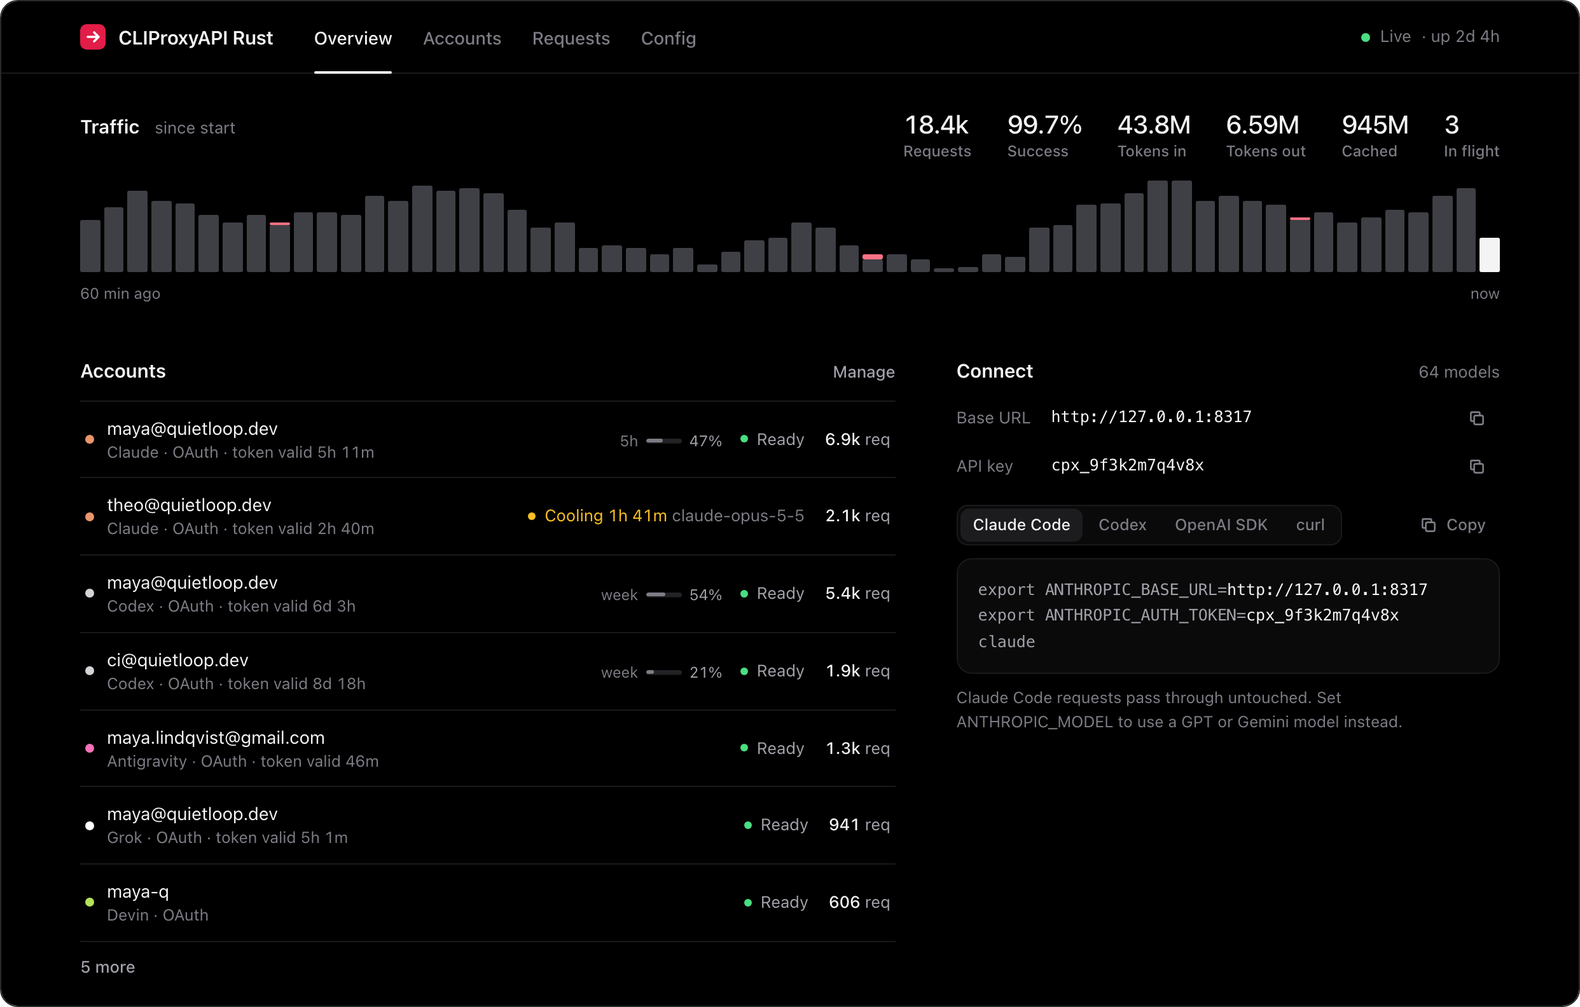
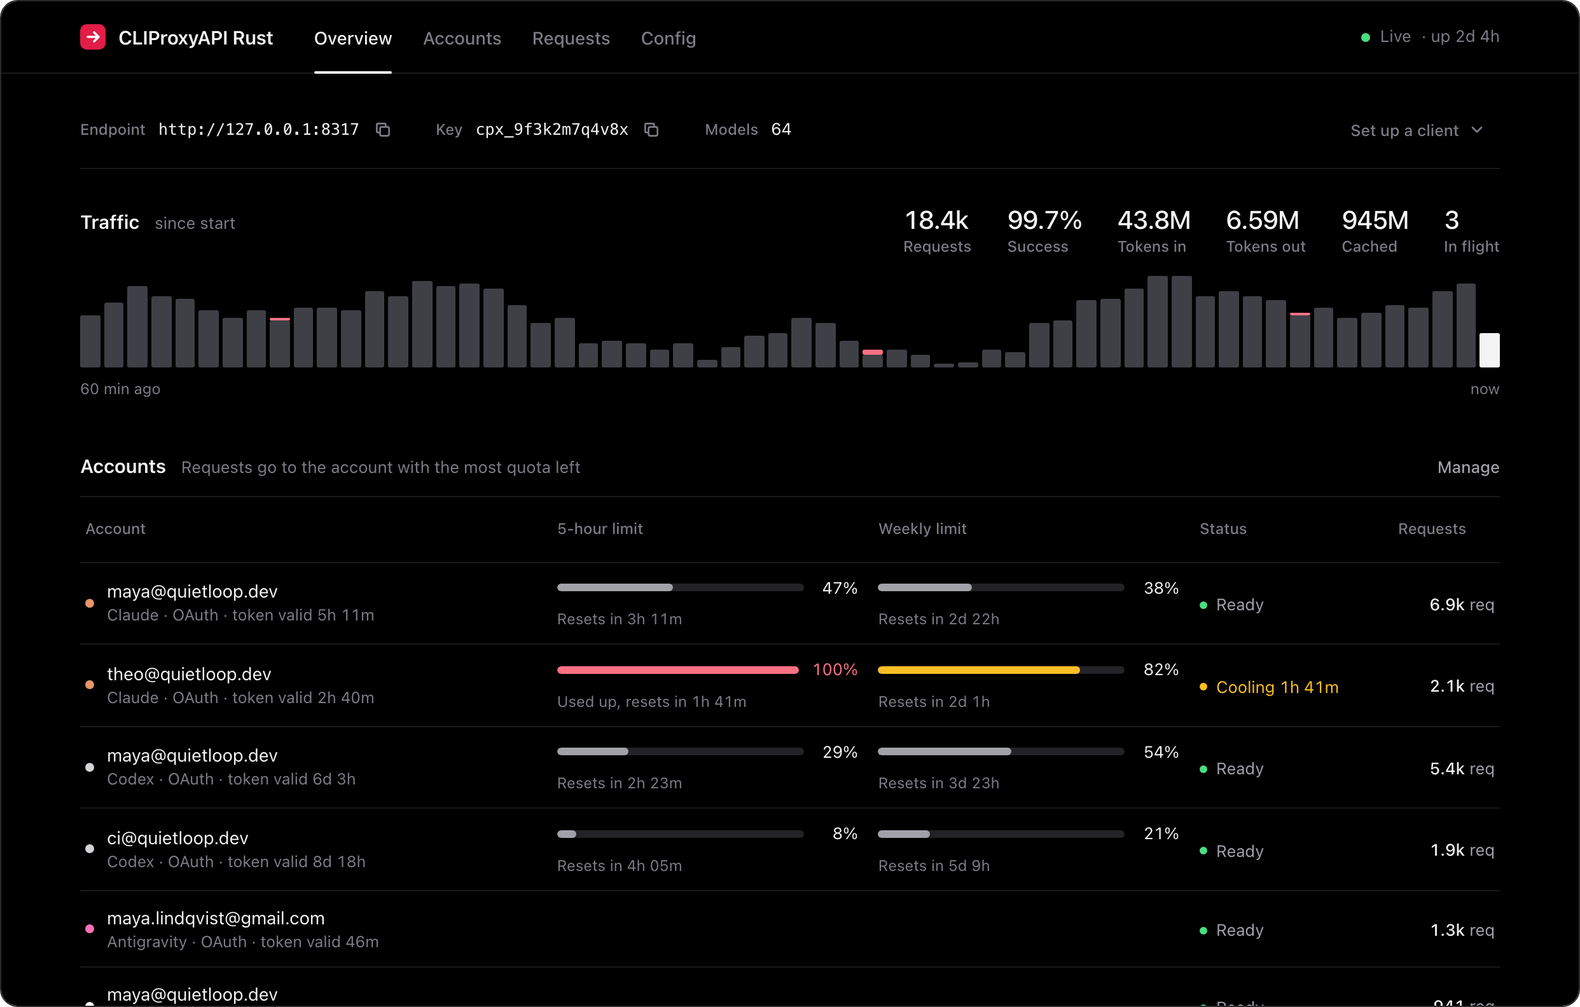
Give subscription limits the overview; fold Connect into one line
Feedback: the Connect panel doesn't need a permanent spot, and the
5-hour limit matters most when running several Claude subscriptions.

The overview now opens with a one-line endpoint strip (endpoint, key,
model count, and a "Set up a client" disclosure for the snippets, open
until the first request and remembered after). Accounts take the full
width as a table with 5-hour and weekly limit columns, so meters line
up and subscriptions compare at a glance, each with its reset time;
accounts that report limits lead. Phones stack each row with labelled
meters. The section notes the routing mode, now part of /api/overview.

diff --git a/ui/app.js b/ui/app.js
@@ -20,6 +20,7 @@ const S = {
   login: null, // { state, provider, url, callback, status, message }
   keyProvider: 'claude',
   snippet: localStorage.getItem('cliproxyapi-rust.snippet') || 'claude',
+  setup: localStorage.getItem('cliproxyapi-rust.setup'), // 'open' | 'closed' | null (auto)
   confirm: null,
   config: { text: null, saved: null, path: '', msg: null, busy: false },
 };
@@ -55,6 +56,7 @@ const ICON = {
   check: '<svg viewBox="0 0 16 16" fill="none" stroke="currentColor" stroke-width="1.7" aria-hidden="true"><path d="m3.5 8.5 3 3 6-7" stroke-linecap="round" stroke-linejoin="round"/></svg>',
   refresh: '<svg viewBox="0 0 16 16" fill="none" stroke="currentColor" stroke-width="1.5" aria-hidden="true"><path d="M13.5 8a5.5 5.5 0 1 1-1.6-3.9" stroke-linecap="round"/><path d="M13.5 2.5v3h-3" stroke-linecap="round" stroke-linejoin="round"/></svg>',
   trash: '<svg viewBox="0 0 16 16" fill="none" stroke="currentColor" stroke-width="1.5" aria-hidden="true"><path d="M2.5 4.5h11M6.5 4.5v-2h3v2M4 4.5l.7 9h6.6l.7-9" stroke-linecap="round" stroke-linejoin="round"/></svg>',
+  chevron: '<svg viewBox="0 0 16 16" fill="none" stroke="currentColor" stroke-width="1.6" aria-hidden="true"><path d="m4 6 4 4 4-4" stroke-linecap="round" stroke-linejoin="round"/></svg>',
   external: '<svg viewBox="0 0 16 16" fill="none" stroke="currentColor" stroke-width="1.5" aria-hidden="true"><path d="M9.5 2.5h4v4M13.5 2.5 7 9M11.5 9.5v3a1 1 0 0 1-1 1h-7a1 1 0 0 1-1-1v-7a1 1 0 0 1 1-1h3" stroke-linecap="round" stroke-linejoin="round"/></svg>',
 };
 
@@ -140,7 +142,7 @@ function refreshAccounts() {
       patch('ov-accounts', ovAccountsHTML);
       patch('acct-list', accountListHTML);
       patch('acct-head', accountHeadHTML);
-      patch('connect', connectHTML);
+      patch('endpoint', endpointHTML);
     } catch {}
   }, 250);
 }
@@ -260,6 +262,7 @@ function skeletonHTML() {
 
 function overviewHTML() {
   return `
+    <section class="endpoint" id="endpoint" aria-label="Connect a client">${endpointHTML()}</section>
     <section class="section">
       <div class="traffic-head">
         <div class="section-head" style="margin:0"><h2>Traffic</h2><span class="meta">since start</span></div>
@@ -268,10 +271,7 @@ function overviewHTML() {
       <div class="bars" id="bars">${barsHTML()}</div>
       <div class="axis"><span>60 min ago</span><span>now</span></div>
     </section>
-    <div class="section split">
-      <section id="ov-accounts">${ovAccountsHTML()}</section>
-      <section id="connect" class="connect">${connectHTML()}</section>
-    </div>
+    <section class="section" id="ov-accounts">${ovAccountsHTML()}</section>
     <section class="section">
       <div class="section-head"><h2>Latest requests</h2><a class="link" href="#/requests">All requests</a></div>
       <div id="recent">${recentHTML()}</div>
@@ -357,9 +357,39 @@ function statusHTML(a, withScope = true) {
   return `<span class="status ${st.cls}"><span class="dot"></span><span>${st.html}</span></span>`;
 }
 
+// The tightest live usage window of a kind: short (5-hour) or long (weekly).
+function windowOf(a, short) {
+  const now = Date.now();
+  return ((a.quota && a.quota.windows) || [])
+    .filter((w) => !w.model && (!w.resets_at || Date.parse(w.resets_at) > now))
+    .filter((w) => /^\d+h$/.test(w.name) === short)
+    .sort((x, y) => y.used - x.used)[0];
+}
+
+const hasLimits = (a) => !!(windowOf(a, true) || windowOf(a, false));
+
+function meterHTML(w, label) {
+  if (!w) return `<span class="meter none"><span class="m-lab">${label}</span><span aria-label="${label}: not reported">–</span></span>`;
+  const p = Math.round(w.used);
+  const cls = p >= 95 ? 'err' : p >= 75 ? 'warn' : '';
+  const reset = w.resets_at
+    ? `<span class="reset">${p >= 100 ? 'Used up, resets in' : 'Resets in'} <span data-until="${esc(w.resets_at)}">${until(w.resets_at)}</span></span>`
+    : '';
+  return `<div class="meter ${cls}">
+    <div class="m-top"><span class="m-lab">${label}</span><span class="track" role="meter" aria-label="${label} used" aria-valuemin="0" aria-valuemax="100" aria-valuenow="${p}"><i style="width:${Math.min(100, p)}%"></i></span><span class="pct">${p}%</span></div>${reset}
+  </div>`;
+}
+
+const ROUTING = {
+  'least-used': 'Requests go to the account with the most quota left',
+  'round-robin': 'Requests take turns across accounts',
+  'fill-first': 'Requests use the first available account',
+};
+
 function ovAccountsHTML() {
   const list = S.accounts || [];
-  const head = `<div class="section-head"><h2>Accounts</h2><a class="link" href="#/accounts">Manage</a></div>`;
+  const routing = ROUTING[S.overview.routing] || '';
+  const head = `<div class="section-head"><div class="head-l"><h2>Accounts</h2>${list.length ? `<span class="meta hide-sm">${routing}</span>` : ''}</div><a class="link" href="#/accounts">Manage</a></div>`;
   if (!list.length) {
     return `${head}<div class="empty list">
       <h3>No accounts connected</h3>
@@ -371,15 +401,31 @@ function ovAccountsHTML() {
         <button class="btn" data-act="open-panel" data-panel="key">Add API key</button>
       </div></div>`;
   }
-  const shown = list.slice(0, 7);
-  const rows = shown.map((a) => `
-    <div class="row acct-row">
-      <div class="acct-name"><span class="dot ${esc(a.provider)}"></span><span class="who"><span class="label">${esc(a.label)}</span><span class="sub">${esc(acctSub(a))}</span></span></div>
-      <span class="status-line">${Object.keys(a.cooldowns || {}).length ? '' : `<span class="hide-sm">${limitsHTML(a, 1)}</span>`}${statusHTML(a)}</span>
-      <span class="num hide-sm"><b>${fmt(a.counters.requests)}</b> req</span>
-    </div>`).join('');
+  // Subscriptions that report their limits lead; the rest follow in pool order.
+  const sorted = [...list.filter(hasLimits), ...list.filter((a) => !hasLimits(a))];
+  const shown = sorted.slice(0, 10);
+  const limits = list.some(hasLimits);
+  const name = (a) => `<div class="acct-name"><span class="dot ${esc(a.provider)}"></span><span class="who"><span class="label">${esc(a.label)}</span><span class="sub">${esc(acctSub(a))}</span></span></div>`;
+  const req = (a) => `<span class="num"><b>${fmt(a.counters.requests)}</b> req</span>`;
   const more = list.length > shown.length ? `<p class="note"><a class="link" href="#/accounts">${list.length - shown.length} more</a></p>` : '';
-  return `${head}<div class="list">${rows}</div>${more}`;
+  if (!limits) {
+    const rows = shown.map((a) => `<div class="row acct-row">${name(a)}${statusHTML(a, false)}<span class="hide-sm">${req(a)}</span></div>`).join('');
+    return `${head}<div class="list">${rows}</div>${more}`;
+  }
+  const rows = shown.map((a) => {
+    const lim = hasLimits(a);
+    return `<div class="row lim-row">
+      ${name(a)}
+      <div class="lim-5h">${lim ? meterHTML(windowOf(a, true), '5h') : ''}</div>
+      <div class="lim-wk">${lim ? meterHTML(windowOf(a, false), 'Week') : ''}</div>
+      <div class="lim-status">${statusHTML(a, false)}</div>
+      <div class="lim-req hide-md">${req(a)}</div>
+    </div>`;
+  }).join('');
+  return `${head}<div class="lim-table">
+    <div class="row lim-row lim-head" aria-hidden="true"><span>Account</span><span>5-hour limit</span><span>Weekly limit</span><span>Status</span><span class="hide-md r">Requests</span></div>
+    ${rows}
+  </div>${more}`;
 }
 
 function snippet(kind) {
@@ -418,21 +464,31 @@ function snippet(kind) {
   }
 }
 
-function connectHTML() {
+function setupOpen() {
+  if (S.setup) return S.setup === 'open';
+  // Until the first request arrives, show how to connect.
+  return !S.overview.totals.requests;
+}
+
+function endpointHTML() {
   const o = S.overview;
   const key = o.client_keys[0];
+  const open = setupOpen();
+  const copyBtn = (text, label) => `<button class="btn ghost small" data-act="copy" data-text="${esc(text)}" aria-label="${label}" title="${label}">${ICON.copy}</button>`;
+  return `<div class="ep-row">
+      <div class="ep-item"><span class="ep-label">Endpoint</span><span class="ep-val mono" title="${esc(location.origin)}">${esc(location.origin)}</span>${copyBtn(location.origin, 'Copy endpoint')}</div>
+      <div class="ep-item">${key
+        ? `<span class="ep-label">Key</span><span class="ep-val mono">${esc(key)}</span>${copyBtn(key, 'Copy API key')}`
+        : `<span class="ep-label">Key</span><span class="ep-val">None required</span>`}</div>
+      <div class="ep-item hide-sm"><span class="ep-label">Models</span><span class="ep-val">${o.models}</span></div>
+      <button class="btn ghost small ep-toggle" data-act="toggle-setup" aria-expanded="${open}" aria-controls="ep-setup">Set up a client${ICON.chevron}</button>
+    </div>${open ? `<div class="ep-setup" id="ep-setup">${setupHTML()}</div>` : ''}`;
+}
+
+function setupHTML() {
   const tabs = [['claude', 'Claude Code'], ['codex', 'Codex'], ['sdk', 'OpenAI SDK'], ['curl', 'curl']];
   const sn = snippet(S.snippet);
-  return `
-    <div class="section-head"><h2>Connect</h2><span class="meta">${o.models} models</span></div>
-    <dl>
-      <dt>Base URL</dt><dd class="mono" title="${esc(location.origin)}">${esc(location.origin)}</dd>
-      <dd><button class="btn ghost small" data-act="copy" data-text="${esc(location.origin)}" aria-label="Copy base URL">${ICON.copy}</button></dd>
-      <dt>API key</dt>${key
-        ? `<dd class="mono">${esc(key)}</dd><dd><button class="btn ghost small" data-act="copy" data-text="${esc(key)}" aria-label="Copy API key">${ICON.copy}</button></dd>`
-        : `<dd>Not required <span class="dim">· set api-keys to require one</span></dd><dd></dd>`}
-    </dl>
-    <div class="snip-head">
+  return `<div class="snip-head">
       <div class="seg" role="group" aria-label="Client">${tabs.map(([id, label]) => `<button data-act="snippet" data-id="${id}" aria-pressed="${S.snippet === id}">${label}</button>`).join('')}</div>
       <button class="btn ghost small" data-act="copy" data-text="${esc(sn.text)}" aria-label="Copy snippet">${ICON.copy}<span>Copy</span></button>
     </div>
@@ -474,7 +530,7 @@ function requestRowHTML(r, lit = false, full = true) {
 function recentHTML(lit = false) {
   const rows = S.requests.slice(0, 8);
   if (!rows.length) {
-    return `<div class="empty"><h3>No requests yet</h3><p>Point a client at the base URL above and requests will show up here as they happen.</p></div>`;
+    return `<div class="empty"><h3>No requests yet</h3><p>Point a client at the endpoint above and requests will show up here as they happen.</p></div>`;
   }
   return `<div class="table-wrap"><table>
     <thead><tr><th>Time</th><th>Route</th><th>Model</th><th class="hide-sm">Account</th><th>Status</th><th class="r">Latency</th><th class="r">In</th><th class="r">Out</th></tr></thead>
@@ -942,7 +998,12 @@ document.addEventListener('click', (e) => {
     case 'snippet':
       S.snippet = id;
       localStorage.setItem('cliproxyapi-rust.snippet', id);
-      return patch('connect', connectHTML);
+      return patch('endpoint', endpointHTML);
+    case 'toggle-setup':
+      S.setup = setupOpen() ? 'closed' : 'open';
+      localStorage.setItem('cliproxyapi-rust.setup', S.setup);
+      patch('endpoint', endpointHTML);
+      return $('[data-act="toggle-setup"]')?.focus();
     case 'start-login':
       if (S.panel === el.dataset.provider && S.login && S.login.status === 'pending') return;
       return startLogin(el.dataset.provider);

diff --git a/ui/style.css b/ui/style.css
@@ -15,6 +15,7 @@
   --codex: #d4d4d8;
   --gemini: #7aa2f7;
   --compat: #a78bfa;
+  --track: #232327;
   --vertex: #4cc9b0;
   --antigravity: #f472b6;
   --kimi: #67d2f0;
@@ -76,7 +77,39 @@ a { color: inherit; text-decoration: none; }
 .section-head .meta { color: var(--fg-3); font-size: 13px; }
 .link { color: var(--fg-2); font-size: 13px; font-weight: 500; }
 .link:hover { color: var(--fg); }
-.split { display: grid; grid-template-columns: minmax(0, 3fr) minmax(0, 2fr); gap: 48px; }
+.head-l { display: flex; align-items: baseline; gap: 12px; min-width: 0; }
+
+/* endpoint strip: how to connect, one line until asked for more */
+.endpoint { padding-bottom: 14px; border-bottom: 1px solid var(--line); }
+.endpoint + .section { margin-top: 28px; }
+.ep-row { display: flex; align-items: center; flex-wrap: wrap; gap: 8px 28px; min-height: 32px; }
+.ep-item { display: inline-flex; align-items: center; gap: 10px; min-width: 0; }
+.ep-label { color: var(--fg-3); font-size: 12px; font-weight: 500; }
+.ep-val { color: var(--fg); font-size: 13px; }
+.ep-val.mono { max-width: 34ch; overflow: hidden; text-overflow: ellipsis; white-space: nowrap; font-size: 12.5px; }
+.ep-item .btn.small { height: 26px; margin-left: -6px; padding: 0 6px; }
+.ep-toggle { margin-left: auto; color: var(--fg-2); }
+.ep-toggle svg { transition: transform .2s var(--ease); }
+.ep-toggle[aria-expanded="true"] svg { transform: rotate(180deg); }
+.ep-setup { max-width: 780px; padding-top: 18px; }
+
+/* accounts with their usage limits: meters share columns so subscriptions compare at a glance */
+.lim-table { border-top: 1px solid var(--line); }
+.lim-row { grid-template-columns: minmax(0, 1.5fr) minmax(0, 1fr) minmax(0, 1fr) 140px 76px; gap: 32px; min-height: 64px; }
+.lim-head { min-height: 34px; padding-top: 0; padding-bottom: 0; color: var(--fg-3); font-size: 12px; font-weight: 500; }
+.lim-head:hover { background: none; }
+.lim-req { text-align: right; }
+.meter { display: flex; flex-direction: column; gap: 6px; min-width: 0; }
+.m-top { display: flex; align-items: center; gap: 10px; }
+.m-lab { display: none; color: var(--fg-3); font-size: 12px; min-width: 34px; }
+.meter .track { flex: 1; height: 6px; border-radius: 3px; background: var(--track); overflow: hidden; }
+.meter .track i { display: block; height: 100%; border-radius: 3px; background: var(--fg-2); }
+.meter.warn .track i { background: var(--warn); }
+.meter.err .track i { background: var(--err); }
+.meter .pct { min-width: 4ch; color: var(--fg); font-size: 13px; text-align: right; font-variant-numeric: tabular-nums; }
+.meter.err .pct { color: var(--err); }
+.meter .reset { color: var(--fg-3); font-size: 12px; font-variant-numeric: tabular-nums; white-space: nowrap; }
+.meter.none { flex-direction: row; gap: 10px; color: var(--fg-3); }
 .actions { display: flex; gap: 8px; flex-wrap: wrap; align-items: center; }
 
 /* -------------------------------------------------------------- traffic */
@@ -132,7 +165,7 @@ a { color: inherit; text-decoration: none; }
 .status-line { display: inline-flex; align-items: center; gap: 14px; }
 .limits { display: inline-flex; align-items: center; gap: 12px; }
 .limit { display: inline-flex; align-items: center; gap: 6px; color: var(--fg-3); font-size: 12px; font-variant-numeric: tabular-nums; }
-.limit .bar { width: 28px; height: 4px; border-radius: 2px; background: #232327; overflow: hidden; }
+.limit .bar { width: 28px; height: 4px; border-radius: 2px; background: var(--track); overflow: hidden; }
 .limit .bar i { display: block; height: 100%; border-radius: 2px; background: var(--fg-3); }
 .limit.warn .bar i { background: var(--warn); }
 .limit.err .bar i { background: var(--err); }
@@ -147,9 +180,6 @@ a { color: inherit; text-decoration: none; }
 
 /* --------------------------------------------------------------- connect */
 
-.connect dl { margin: 0 0 16px; display: grid; grid-template-columns: auto minmax(0, 1fr) auto; gap: 10px 16px; align-items: center; }
-.connect dt { color: var(--fg-3); font-size: 13px; }
-.connect dd { margin: 0; color: var(--fg); overflow: hidden; text-overflow: ellipsis; white-space: nowrap; }
 .seg { display: inline-flex; gap: 2px; padding: 2px; background: var(--raise); border: 1px solid var(--line); border-radius: 9px; margin-bottom: 10px; max-width: 100%; overflow-x: auto; scrollbar-width: none; }
 .seg button { flex: none; }
 .seg button { height: 26px; padding: 0 10px; border: 0; border-radius: 7px; background: transparent; color: var(--fg-3); font: 500 12.5px var(--font); cursor: pointer; transition: color .15s, background .15s; }
@@ -238,7 +268,7 @@ input.mono { font-family: var(--mono); font-size: 12.5px; }
 .panel .inline { display: flex; gap: 8px; }
 .panel .inline input { flex: 1; }
 .choices { display: grid; grid-template-columns: repeat(2, minmax(0, 1fr)); gap: 8px; }
-.choice { display: flex; align-items: center; gap: 12px; min-width: 0; padding: 12px 14px; background: var(--bg); border: 1px solid var(--line); border-radius: 10px; color: inherit; font: inherit; text-align: left; cursor: pointer; transition: border-color .15s, background .15s; }
+.choice { display: flex; align-items: center; gap: 12px; min-width: 0; padding: 12px 14px; background: var(--bg); border: 1px solid var(--line); border-radius: 8px; color: inherit; font: inherit; text-align: left; cursor: pointer; transition: border-color .15s, background .15s; }
 .choice:hover { border-color: #3a3a3f; background: var(--row-hover); }
 .choice .who { display: flex; flex-direction: column; min-width: 0; }
 .choice .label { color: var(--fg); font-weight: 500; }
@@ -286,9 +316,9 @@ textarea.mono { resize: vertical; min-height: 120px; }
 .skel-rows { display: grid; gap: 22px; padding: 16px 4px; }
 
 @media (max-width: 960px) {
-  .split { grid-template-columns: minmax(0, 1fr); gap: 40px; }
+  .lim-row { grid-template-columns: minmax(0, 1.3fr) minmax(0, 1fr) minmax(0, 1fr) 120px; gap: 24px; }
   .acct-table .row { grid-template-columns: minmax(0, 1fr) auto 132px; }
-  .acct-table .row .hide-md { display: none; }
+  .acct-table .row .hide-md, .lim-row .hide-md { display: none; }
 }
 
 @media (max-width: 720px) {
@@ -305,6 +335,14 @@ textarea.mono { resize: vertical; min-height: 120px; }
   .seg button { padding: 0 8px; }
   .hide-sm { display: none; }
   .acct-row { grid-template-columns: minmax(0, 1fr) auto; }
+  .lim-head { display: none; }
+  .lim-row { grid-template-columns: minmax(0, 1fr) minmax(0, 1fr); grid-template-areas: "name status" "h5 wk"; gap: 12px 20px; padding-top: 14px; padding-bottom: 14px; }
+  .lim-row .acct-name { grid-area: name; }
+  .lim-row .lim-status { grid-area: status; justify-self: end; }
+  .lim-5h { grid-area: h5; }
+  .lim-wk { grid-area: wk; }
+  .m-lab { display: inline; }
+  .ep-toggle { margin-left: 0; }
   .panel .grid { grid-template-columns: minmax(0, 1fr); }
   .toolbar input { width: 100%; }
 }

diff --git a/src/mgmt.rs b/src/mgmt.rs
@@ -387,6 +387,7 @@ async fn overview(State(app): State<Arc<App>>) -> Json<Value> {
         "uptime_secs": (chrono::Utc::now() - app.started).num_seconds(),
         "base_url": format!("http://{host}:{}", cfg.port),
         "client_keys": cfg.api_keys,
+        "routing": cfg.routing,
         "management_key": !cfg.management_key.is_empty(),
         "totals": *app.stats.totals.lock(),
         "active": app.stats.active.load(Ordering::Relaxed),

diff --git a/DESIGN.md b/DESIGN.md
@@ -9,6 +9,7 @@ colors:
   line-strong: "#2a2a2a"
   line-hover: "#3a3a3f"
   bar-idle: "#3f3f46"
+  meter-track: "#232327"
   switch-on: "#e4e4e7"
   lit: "#ffffff"
   fg: "#f4f4f5"
@@ -69,6 +70,7 @@ typography:
 rounded:
   hair: "1.5px"
   bar: "2px"
+  meter: "3px"
   xs: "4px"
   tag: "5px"
   sm: "6px"
@@ -125,7 +127,7 @@ Mode: Operate. Familiar controls, dense tables, tabular numbers, system fonts.
 - State: `ok` ready/success, `warn` cooling down, `err` failures. Used for dots and short status words, never for large fills.
 - `brand` rose is the mark only. It is not a text color (4.47:1 on black).
 - Provider dots: Claude clay, Codex light gray, Gemini blue, OpenAI-compatible violet.
-- Supporting neutrals: `line-hover` for hovered control borders, `bar-idle` for traffic bars and disabled dots, `switch-on` for an enabled switch track, and `lit` (#fff) only for the instant a new row lights up and for the hovered primary button.
+- Supporting neutrals: `line-hover` for hovered control borders, `meter-track` for the empty part of usage meters, `bar-idle` for traffic bars and disabled dots, `switch-on` for an enabled switch track, and `lit` (#fff) only for the instant a new row lights up and for the hovered primary button.
 
 ## Typography
 
@@ -133,7 +135,9 @@ One system sans family for all UI; monospace only for real code and data (endpoi
 
 ## Layout
 
-Single column, max width 1180px, 32px side padding (16px on mobile). Sticky 56px top bar with tabs. More space above a section title (32–40px) than below it (12px). Overview splits into a 3:2 two-column grid above 900px.
+Single column, max width 1180px, 32px side padding (16px on mobile). Sticky 56px top bar with tabs. More space above a section title (32–40px) than below it (12px).
+
+Overview, top to bottom: a one-line endpoint strip (endpoint, key, model count, and a "Set up a client" disclosure that expands the client snippets; open until the first request, then remembered), traffic, accounts at full width, latest requests. The accounts table gives subscription limits their own columns (5-hour, weekly) so several subscriptions compare at a glance; accounts that report limits come first. On phones each row stacks: name and status, then the two meters side by side with inline labels.
 
 ## Elevation & Depth
 
@@ -148,6 +152,7 @@ Flat. Depth comes only from `raise` surfaces and 1px `line` hairlines. No shadow
 - Buttons: outline (line-strong border) by default; one white-filled primary per view at most; ghost buttons for row actions.
 - Tables: 12px fg-3 headers, 40px rows, 1px line separators, row hover `#070707`.
 - Status: dot + word ("Ready", "Cooling 4:12", "Disabled", "Error").
+- Usage meters: 6px track (`meter-track`, 3px radius) with the used share in `fg-2`, `warn` from 75% and `err` from 95%; the percentage in `fg` with tabular numbers to the right, and "Resets in 2h 14m" in `fg-3` underneath. Meters for one window share a column.
 - Live rows: a new request row lights up at full white and settles to its resting luminance over 1.8s (the one authored motion; disabled for reduced motion).
 
 ## Do's and Don'ts

diff --git a/README.md b/README.md
@@ -22,7 +22,7 @@ Point Claude Code, Codex, your editor or any SDK at one URL and stop caring whic
 
 <br>
 
-<img src="assets/screenshots/overview.png" alt="CLIProxyAPI-Rust dashboard: an hour of traffic, account health with a cooldown timer, and copy-paste setup for Claude Code" width="100%">
+<img src="assets/screenshots/overview.png" alt="CLIProxyAPI-Rust dashboard: the endpoint, an hour of traffic, and every subscription's 5-hour and weekly limits side by side" width="100%">
 
 <br>
 
@@ -34,7 +34,7 @@ Point Claude Code, Codex, your editor or any SDK at one URL and stop caring whic
 - **Images and video too.** `/v1/images/generations` and `/v1/images/edits` work with ChatGPT accounts, OpenAI and xAI keys, Vertex Imagen and Gemini image models. xAI video generation is behind `/v1/videos`.
 - **WebSockets.** Codex WebSocket sessions are relayed to ChatGPT's own WebSocket upstream, so `previous_response_id` works on the server side. Switch to a Claude or Gemini model mid-session and CLIProxyAPI-Rust carries the conversation over.
 - **Many accounts, no babysitting.** Each request goes to the account with the most quota left, using the 5-hour and weekly usage Claude and ChatGPT report. An account whose limit is used up sits out until it resets, a rate limit cools down only that model on that account, failed requests move to the next account, and OAuth tokens refresh themselves.
-- **A dashboard you'll actually open.** Pure black, live over WebSocket: traffic, account health with countdown timers, sign-in flows, a request log and a config editor.
+- **A dashboard you'll actually open.** Pure black, live over WebSocket: every subscription's 5-hour and weekly limits side by side, traffic, cooldown timers, sign-in flows, a request log and a config editor.
 - **Drop-in for CLIProxyAPI users.** Same credential files, same `config.yaml` (both of its layouts), same Docker paths and flags. Swap the image and keep everything else.
 
 ## Quick start
